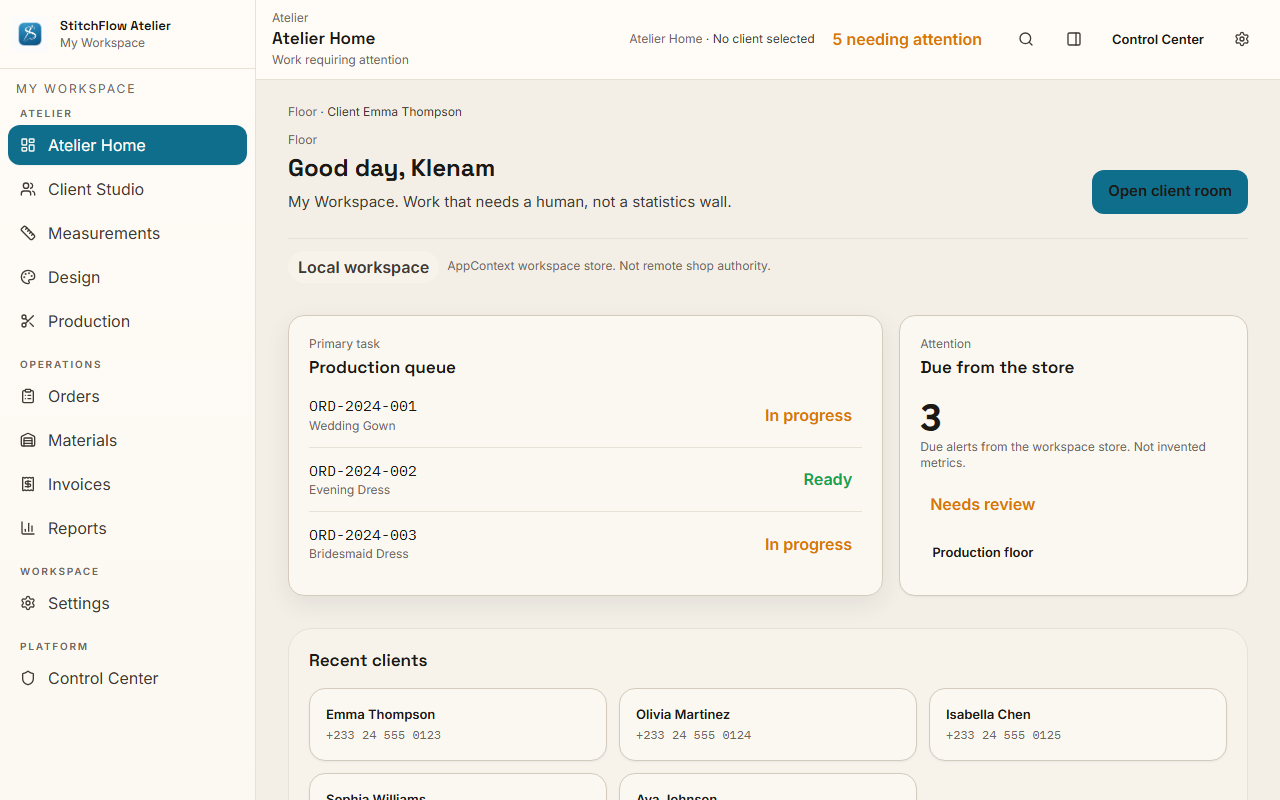
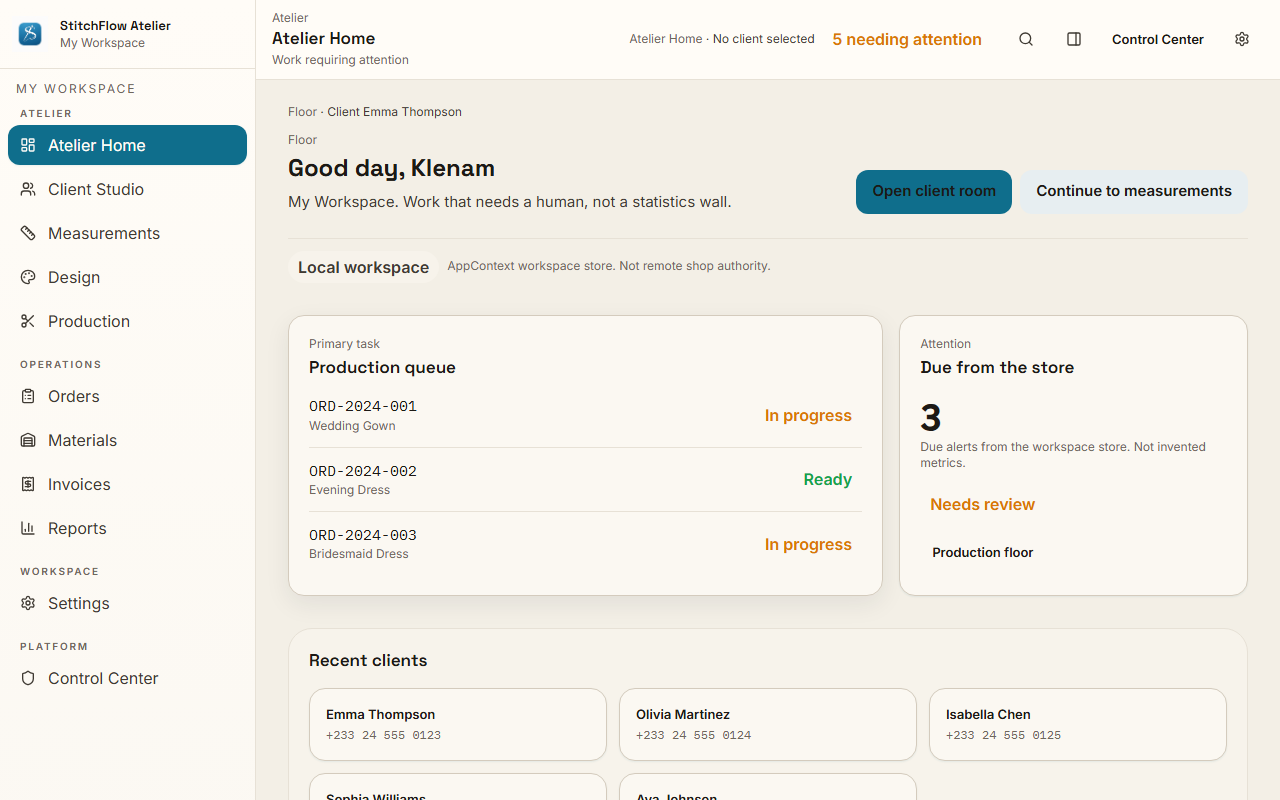
docs(experience): record SER-F3 cinematic motion system

Changed region(s): [[0.6562, 0.1875, 1.0, 0.2812]]

diff --git a/docs/architecture/AGENT_START_HERE.md b/docs/architecture/AGENT_START_HERE.md
@@ -58,7 +58,8 @@ SAC-4 shop PostgreSQL path (`SHOP_DATABASE_MODE=postgres`): [`convergence/sac-4/
 SAC-5 offline sync (selected `/shop` domains, AppContext remains UI SoT): [`convergence/sac-5/README.md`](./convergence/sac-5/README.md).  
 SER-F0 frontend experience forensics: [`../experience/ser/f0/README.md`](../experience/ser/f0/README.md).  
 SER-F1 experience constitution: [`frontend/experience/README.md`](./frontend/experience/README.md).  
-SER-F2 visual language (product Floor): [`frontend/experience/SER-F2_FINAL_REPORT.md`](./frontend/experience/SER-F2_FINAL_REPORT.md). SER-F3 locked. 3D and Phase 20 remain locked.
+SER-F2 visual language: [`frontend/experience/SER-F2_FINAL_REPORT.md`](./frontend/experience/SER-F2_FINAL_REPORT.md).  
+SER-F3 cinematic motion: [`frontend/experience/SER-F3_FINAL_REPORT.md`](./frontend/experience/SER-F3_FINAL_REPORT.md). SER-F4 locked. 3D and Phase 20 remain locked.
 
 ---
 

diff --git a/docs/architecture/README.md b/docs/architecture/README.md
@@ -20,7 +20,7 @@ This directory is the **Level 2** governance layer.
 | [continuity/](./continuity/) | Synthesized runtime / data / protected / phase maps |
 | [convergence/](./convergence/) | SAC-0 forensics; SAC-1–SAC-5 implementation records (3D / Phase 20 locked) |
 | [../experience/ser/f0/](../experience/ser/f0/README.md) | SER-F0 experience forensics |
-| [frontend/experience/](./frontend/experience/README.md) | SER-F1 constitution + SER-F2 visual language (SER-F3 locked) |
+| [frontend/experience/](./frontend/experience/README.md) | SER-F1–F3 experience (SER-F4 locked) |
 | [adr/](./adr/) | Architecture Decision Records ADR-001 … ADR-011 |
 | [governance/](./governance/) | Constitution index, gate register, supersession policy |
 

diff --git a/docs/architecture/frontend/experience/SER-F3_VISUAL_LAB.md b/docs/architecture/frontend/experience/SER-F3_VISUAL_LAB.md
@@ -1,0 +1,11 @@
+# SER-F3 visual lab
+
+Product `/` only.
+
+| Shot | Result |
+|---|---|
+| floor-1280.png | Captured. Shows **Continue to measurements** (journey CTA). |
+| floor-390.png | Script reported capture; file **not present** after Edge run |
+| floor-1280-reduced.png | Script reported capture; file **not present** |
+
+Motion itself cannot be proven by a still. Evidence = code grammar + Floor CTA. Video: not available.

diff --git a/docs/architecture/frontend/experience/README.md b/docs/architecture/frontend/experience/README.md
@@ -2,4 +2,5 @@
 
 SER-F0 forensics: [`../../../experience/ser/f0/README.md`](../../../experience/ser/f0/README.md)  
 SER-F1 constitution (this folder).  
-SER-F2 visual language: [`SER-F2_FINAL_REPORT.md`](./SER-F2_FINAL_REPORT.md). SER-F3 locked.
+SER-F2 visual language: [`SER-F2_FINAL_REPORT.md`](./SER-F2_FINAL_REPORT.md).  
+SER-F3 cinematic motion: [`SER-F3_FINAL_REPORT.md`](./SER-F3_FINAL_REPORT.md). SER-F4 locked.

diff --git a/docs/architecture/frontend/experience/SER-F3_MOTION_TOKENS.md b/docs/architecture/frontend/experience/SER-F3_MOTION_TOKENS.md
@@ -1,0 +1,13 @@
+# SER-F3 motion tokens
+
+| Token | Why |
+|---|---|
+| instant 80ms | reduced-motion / focus-safe |
+| micro 100ms | press |
+| fast 140ms | dialog/context |
+| base 220ms | workspace |
+| slow 280ms | longer spatial |
+| milestone 320ms | real commitment only |
+| ease standard / enter / exit / emphasize | enter vs leave |
+
+CSS: `--sf-duration-micro`, `--sf-duration-milestone`, `--sf-ease-enter`.

diff --git a/docs/architecture/frontend/experience/SER-F3_ATELIER_TRANSITIONS.md b/docs/architecture/frontend/experience/SER-F3_ATELIER_TRANSITIONS.md
@@ -1,0 +1,7 @@
+# SER-F3 atelier transitions
+
+Journey order: Floor → Clients → Measurements → Design → Production → Ledger.
+
+`workspacePreset(from, to)` uses **+x** when moving forward, **−x** when returning. Not a generic fade.
+
+Representative runtime: Floor **Continue to measurements** → `goAtelierRoom('measurements')` (no URL router). Thread remains in the header (contextual).

diff --git a/docs/architecture/frontend/experience/SER-F3_MOTION_ARCHITECTURE.md b/docs/architecture/frontend/experience/SER-F3_MOTION_ARCHITECTURE.md
@@ -1,0 +1,8 @@
+# SER-F3 motion architecture
+
+Single module: `apps/web/src/experience/motion/motion.ts`.  
+Existing **framer-motion** only (already a dependency). No new framework.
+
+Categories: MICRO · CONTEXTUAL · WORKSPACE · MILESTONE.
+
+Transforms/opacity only. `motionOrInstant` keeps **opacity state change** under `prefers-reduced-motion` (does not delete feedback).

diff --git a/docs/architecture/frontend/experience/SER-F3_MOTION_CATEGORIES.md b/docs/architecture/frontend/experience/SER-F3_MOTION_CATEGORIES.md
@@ -1,0 +1,8 @@
+# SER-F3 motion categories
+
+| Category | Implementation |
+|---|---|
+| MICRO | `.sf-micro-press` scale 0.98 on Button |
+| CONTEXTUAL | Thread `AnimatePresence`; empty enter; dialog |
+| WORKSPACE | `workspacePreset(from, to)` ±16px x along Floor→…→Ledger |
+| MILESTONE | `AtelierMilestone` only when freeze/fingerprint **message exists** |

diff --git a/docs/architecture/frontend/experience/SER-F3_PERFORMANCE.md b/docs/architecture/frontend/experience/SER-F3_PERFORMANCE.md
@@ -1,0 +1,6 @@
+# SER-F3 performance
+
+`vite build`: `main-*.js` **917.34 kB** / gzip **260.73 kB**; DataTable chunk **313.38 kB** / gzip **101.45 kB**.  
+F2 main was 1043.88 / 302.34 (less split). Combined large JS similar; no new animation library.
+
+FPS / CLS / memory: **NOT VERIFIED**. Motion uses transform/opacity.

diff --git a/docs/architecture/frontend/experience/SER-F3_MILESTONE_MOTION.md b/docs/architecture/frontend/experience/SER-F3_MILESTONE_MOTION.md
@@ -1,0 +1,7 @@
+# SER-F3 milestone motion
+
+`AtelierMilestone` plays **only** when Measurement workspace has a real freeze/fingerprint message.
+
+Does **not** wrap DesignStudio trusted finalize (protected internals). Frame-only would be F7.
+
+Failure messages use `role=alert` with **no** success choreography.

diff --git a/docs/architecture/frontend/experience/SER-F3_DIALOG_AND_PANEL_MOTION.md b/docs/architecture/frontend/experience/SER-F3_DIALOG_AND_PANEL_MOTION.md
@@ -1,0 +1,7 @@
+# SER-F3 dialog and panel motion
+
+Shared Dialog: overlay opacity + panel y (transform). Escape/focus trap unchanged. Mobile still bottom-aligned.
+
+Sheet: +x 24px — same “tool from the side” on mobile full-width.
+
+Inspector desktop remains a rail (no extra blur).

diff --git a/docs/architecture/frontend/experience/SER-F3_FINAL_REPORT.md b/docs/architecture/frontend/experience/SER-F3_FINAL_REPORT.md
@@ -1,0 +1,5 @@
+# SER-F3 final report
+
+Motion system in `motion.ts`. Floor → Measurements via `goAtelierRoom`. Dialog/Sheet AnimatePresence. Milestone only on real freeze/fingerprint copy. DesignStudio.tsx untouched.
+
+Overall: **CONDITIONALLY CERTIFIED**.
